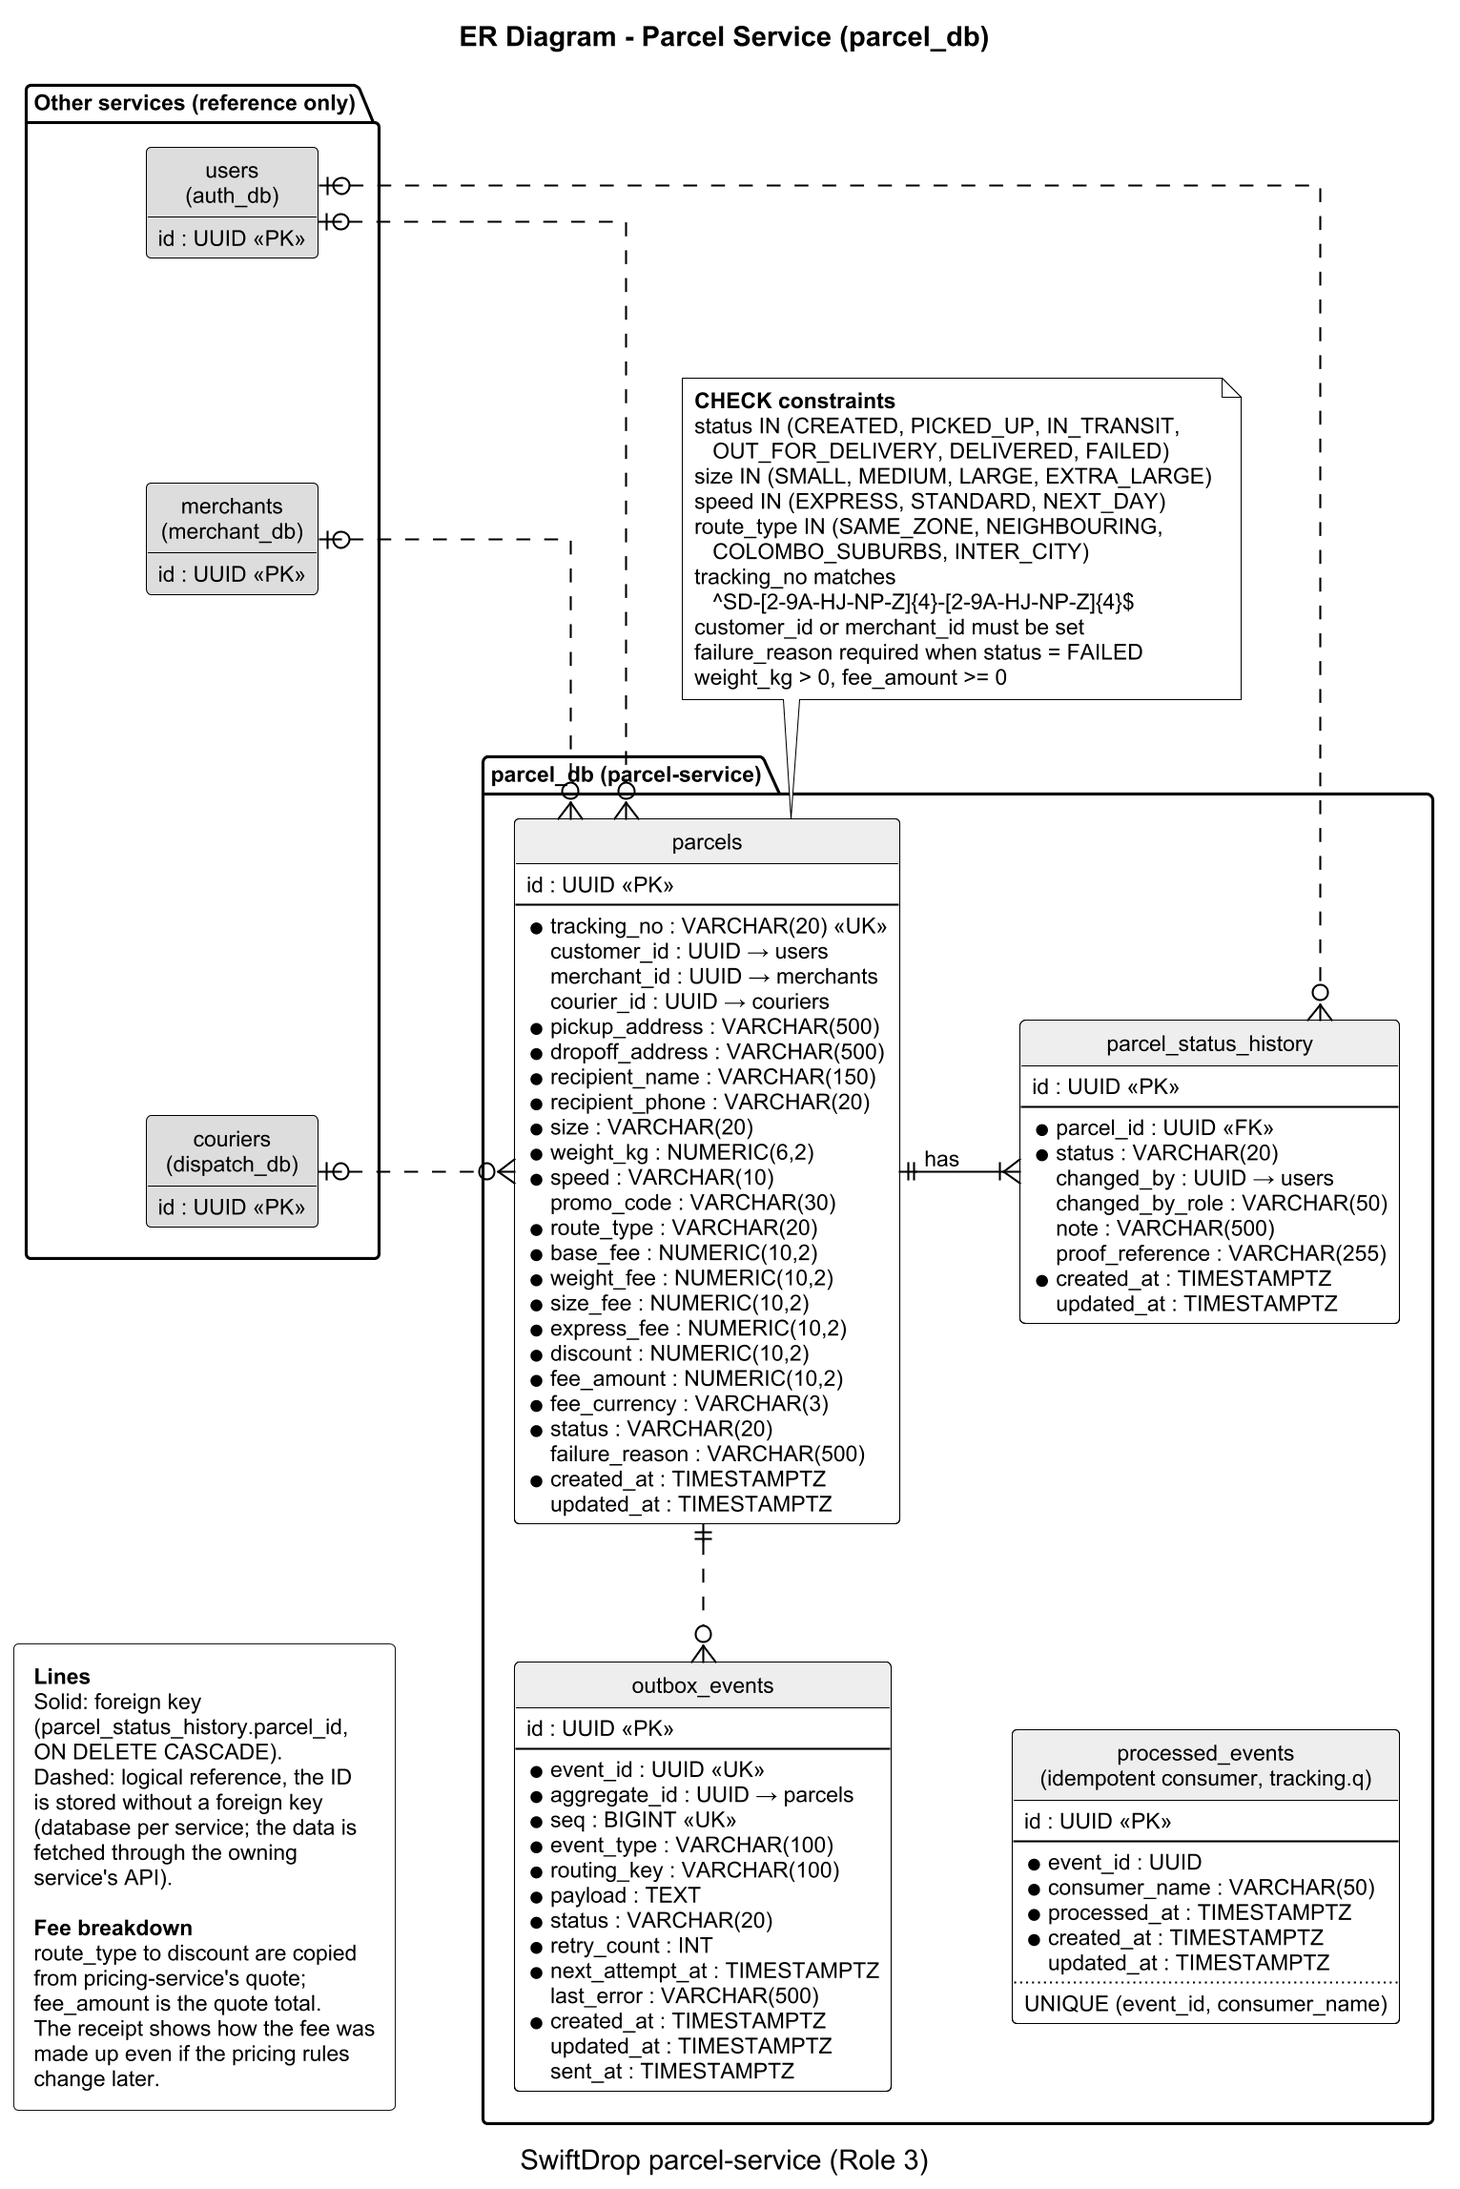
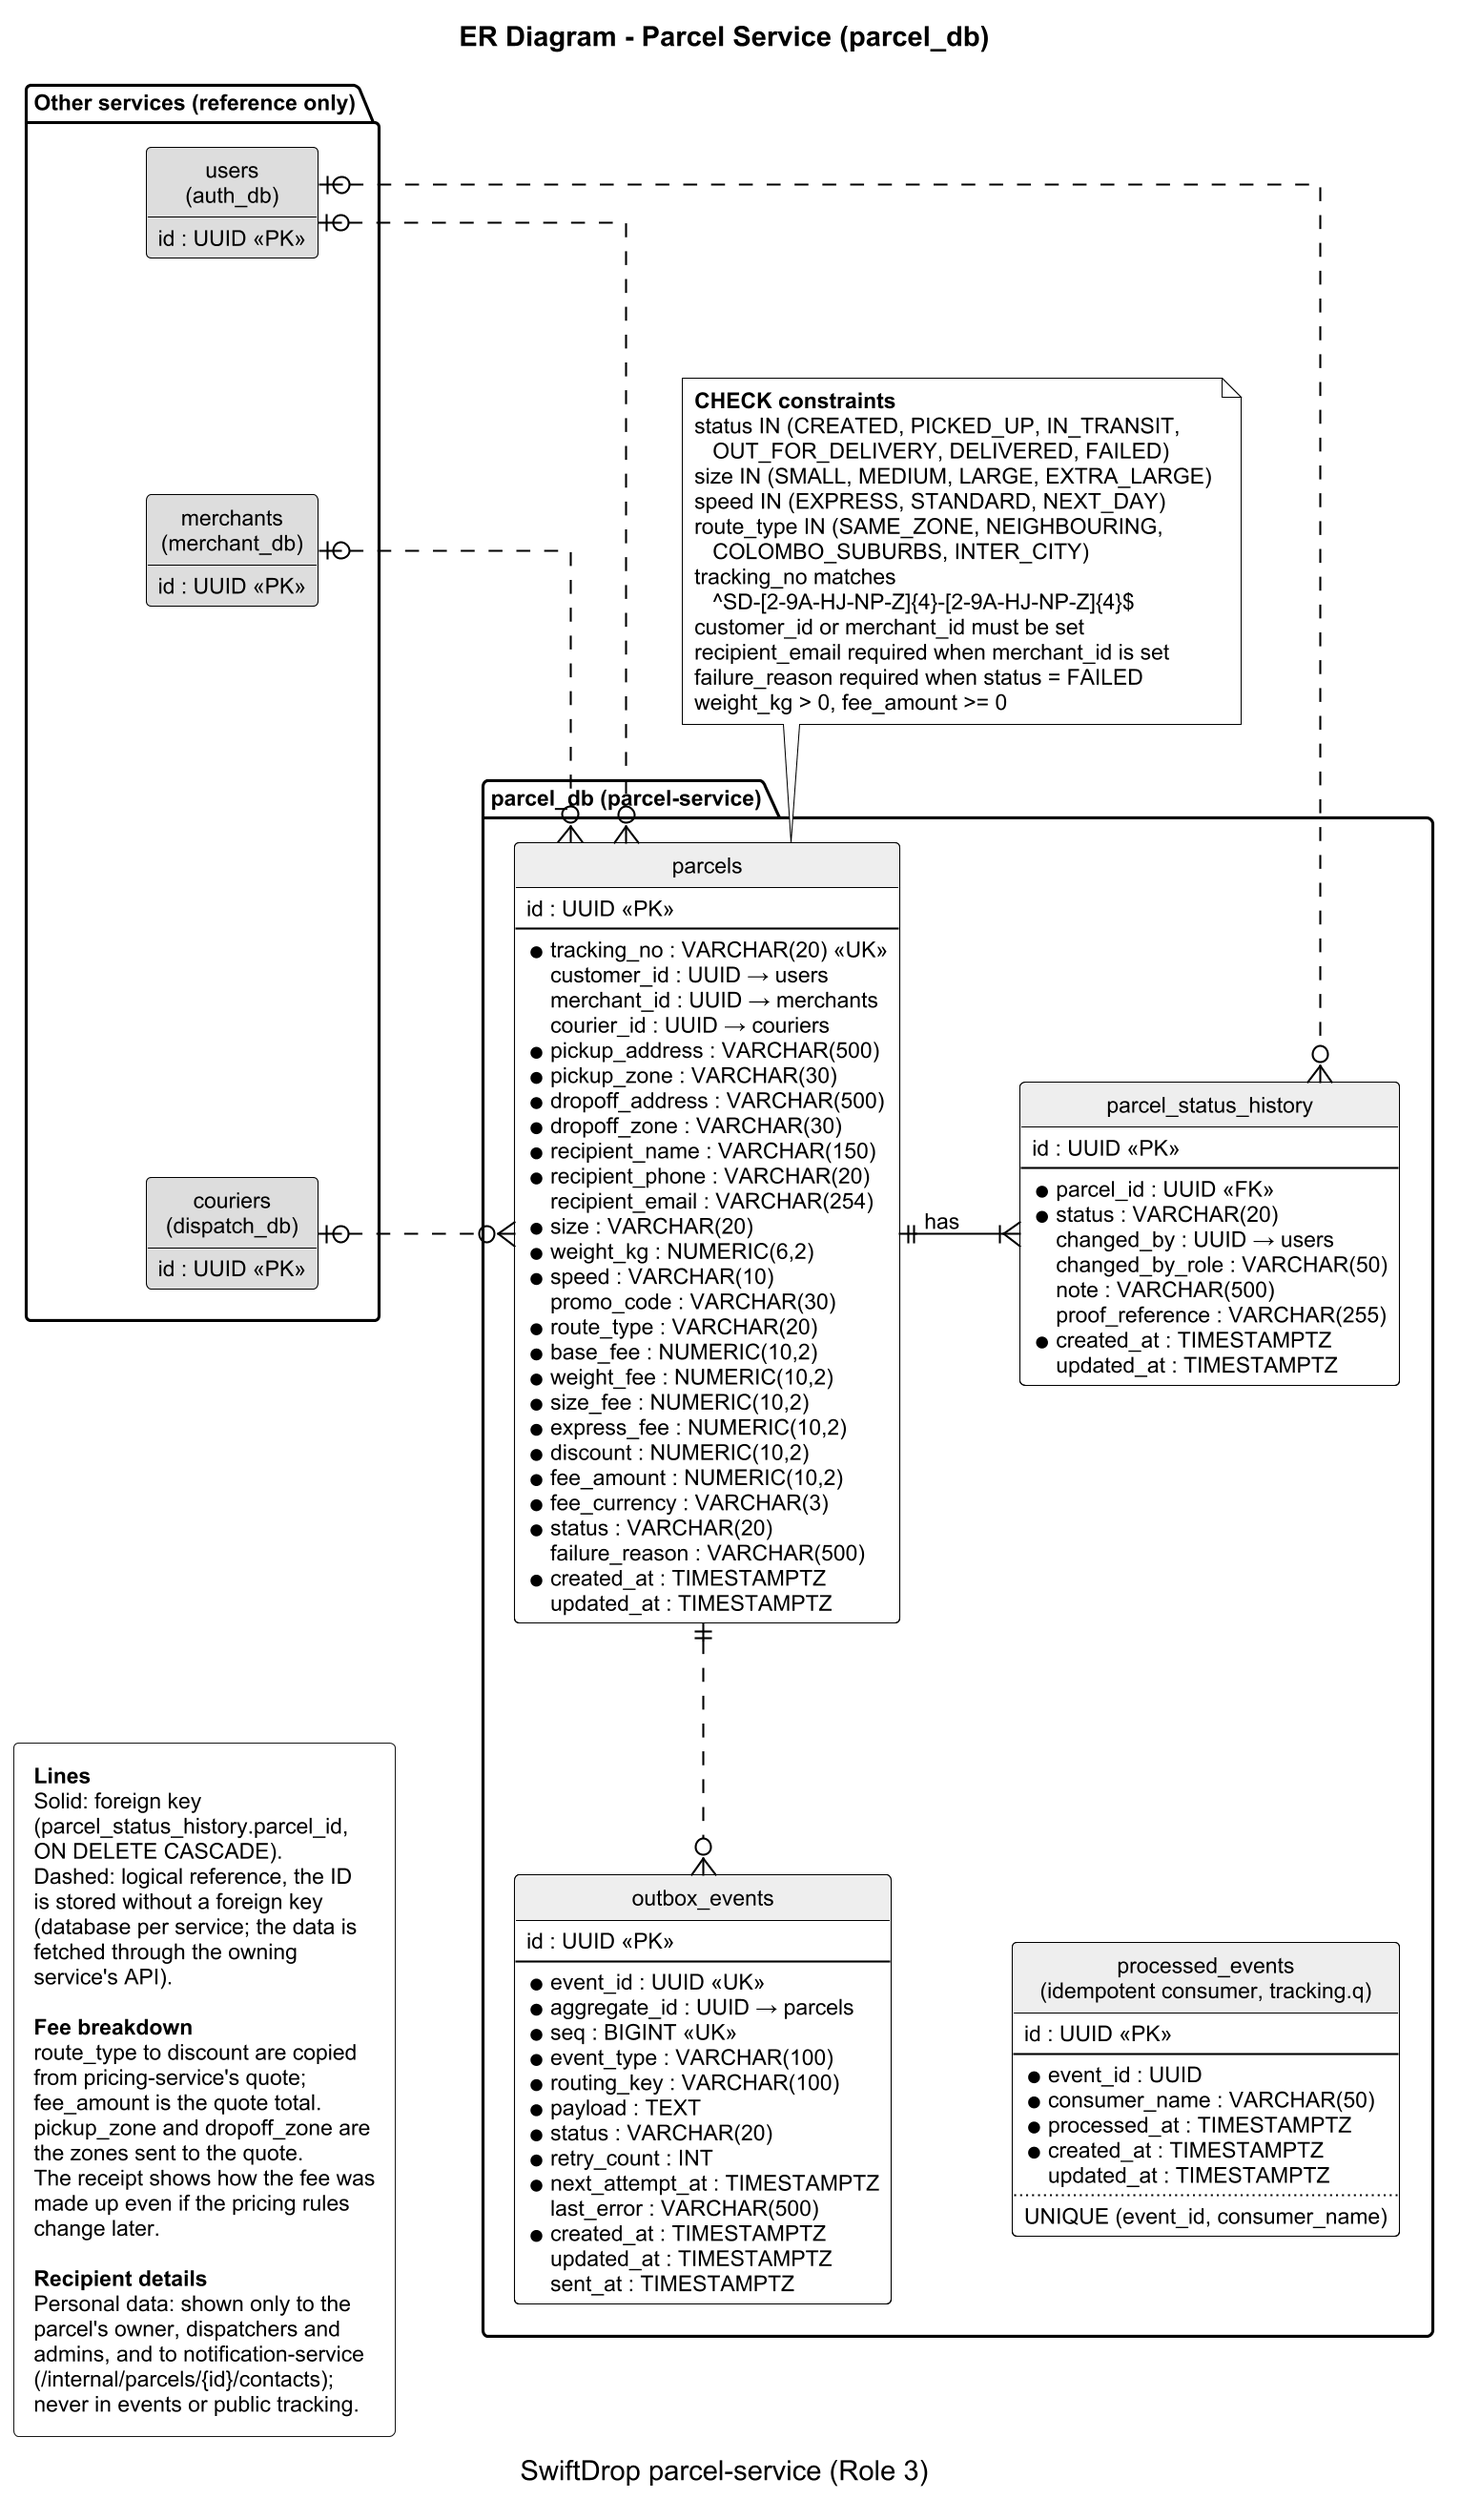
docs(parcel): add remaining parcel-service diagrams
Cover the rest of the Role 3 scope in docs/diagrams:
- delivery history, parcel details, receipt PDF and public lookup
  (sequence, 4 pages)
- internal API for merchant orders and recipient contacts (sequence,
  4 pages), the proposed contract for merchant-service and
  notification-service
- parcel-service component overview with every endpoint, caller and
  dependency

Update the parcel_db ER diagram with pickup_zone, dropoff_zone and
recipient_email, which the pricing quote and recipient notifications
need.

diff --git a/docs/diagrams/README.md b/docs/diagrams/README.md
@@ -18,6 +18,9 @@ All `.mmd` files can be pasted into [mermaid.live](https://mermaid.live) to rend
 | `er-parcel-service.puml` | ER — parcel-service (`parcel_db`) | Role 3 |
 | `state-parcel-status.puml` | State — parcel status lifecycle | Role 3 |
 | `activity-parcel-status-update.puml` | Activity — parcel status update checks (2 PNG pages) | Role 3 |
+| `seq-parcel-history-receipt.puml` | Sequence — delivery history, parcel details, receipt PDF and public lookup (4 PNG pages, landscape) | Role 3 |
+| `seq-internal-parcel-api.puml` | Sequence — internal API: merchant orders and recipient contacts (4 PNG pages, landscape) | Role 3, contract with Role 5 + Role 6 |
+| `arch-parcel-service.puml` | Component — parcel-service endpoints, parts and dependencies (landscape) | Role 3 |
 | `er-` | ER diagram (full and per service) | Each service owner, merged by Role 1 |
 | `arch-` | Architecture overview (full system) | Role 1 |
 | `seq-merchant-order` | Merchant API order creation | Role 5 |
